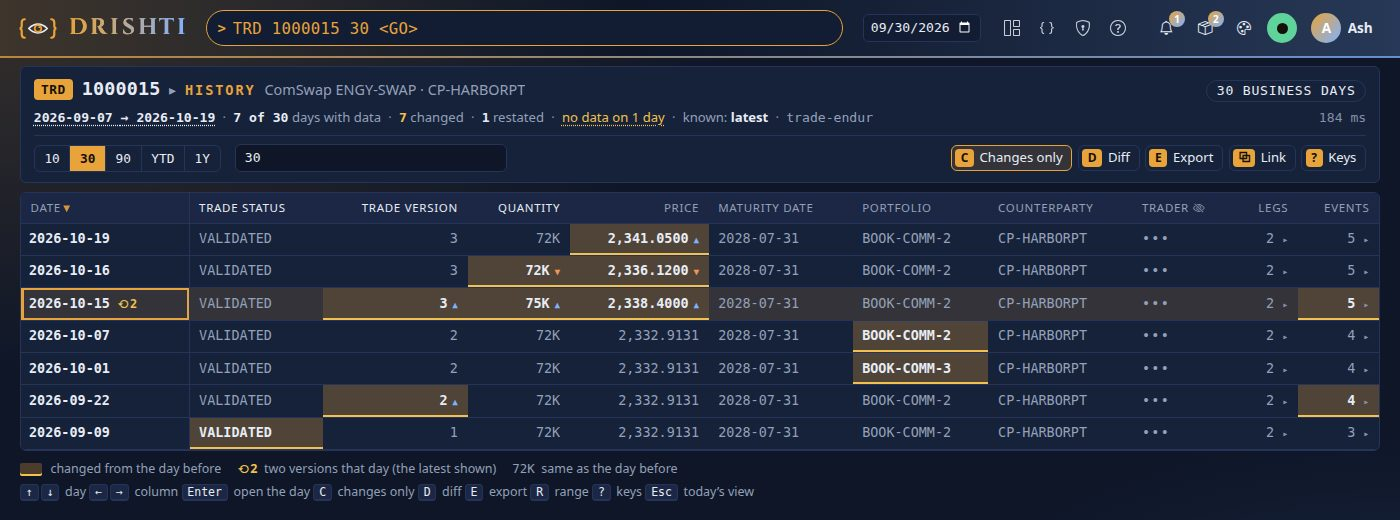
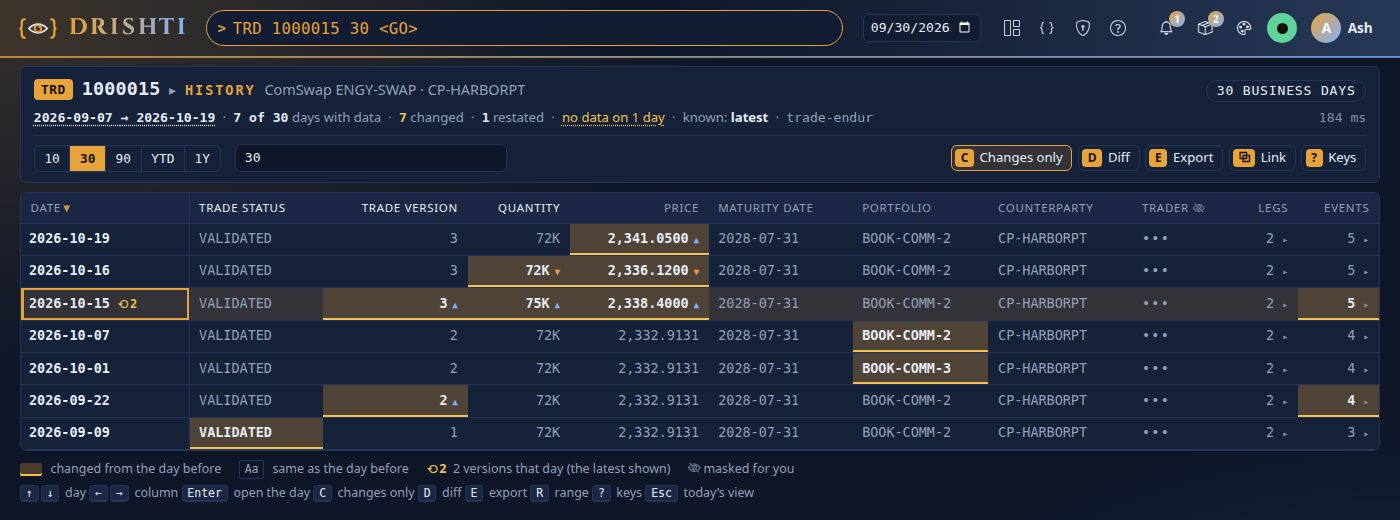
History page legend: only what the page shows (changed and same when a day changed, N versions when a day was restated, carried, masked), with a neutral sample cell instead of a value of the fixture trade; test; tutorial 21 pictures retaken

Changed region(s): [[0.0307, 0.8923, 0.5836, 0.9538]]

diff --git a/drishti-console/web/templates/terminal/history.html b/drishti-console/web/templates/terminal/history.html
@@ -142,7 +142,14 @@
   </section>
   {% endif %}
   <footer class="hx-foot">
-    {% if not page.market %}<p class="hx-legend"><span class="hx-sw hx-sw-ch" aria-hidden="true"></span> changed from the day before <span class="hx-sw-ver">⟲2</span> two versions that day (the latest shown) <span class="hx-sw-same">72K</span> same as the day before</p>{% endif %}
+    {# the legend names only what this page shows #}
+    {% if not page.market and (page.changed_days or page.restated or page.carried or page.masked) %}<p class="hx-legend" data-hx-legend>
+      {% if page.changed_days %}<span class="hx-li" data-legend="changed"><span class="hx-sw hx-sw-ch" aria-hidden="true"></span> changed from the day before</span>
+      <span class="hx-li" data-legend="same"><span class="hx-sw hx-sw-same" aria-hidden="true">Aa</span> same as the day before</span>{% endif %}
+      {% if page.restated %}<span class="hx-li" data-legend="versions"><span class="hx-sw-ver">⟲{{ page.max_versions }}</span> {{ page.max_versions }} versions that day (the latest shown)</span>{% endif %}
+      {% if page.carried %}<span class="hx-li" data-legend="carried"><span class="hx-carry">↧</span> no change that day: carried forward</span>{% endif %}
+      {% if page.masked %}<span class="hx-li" data-legend="masked"><i class="bi bi-eye-slash" aria-hidden="true"></i> masked for you</span>{% endif %}
+    </p>{% endif %}
     <p class="hx-keyline"><kbd>↑</kbd><kbd>↓</kbd> day <kbd>←</kbd><kbd>→</kbd> column <kbd>Enter</kbd> open the day {% if not page.market %}<kbd>C</kbd> changes only {% else %}<kbd>1</kbd><kbd>3</kbd><kbd>6</kbd><kbd>Y</kbd><kbd>T</kbd> range {% endif %}<kbd>D</kbd> diff <kbd>E</kbd> export <kbd>R</kbd> range <kbd>?</kbd> keys <kbd>Esc</kbd> today’s view</p>
   </footer>
   <dialog class="hx-help" data-hx-help aria-label="History keys">

diff --git a/drishti-console/web/static/css/history.css b/drishti-console/web/static/css/history.css
@@ -126,8 +126,11 @@
   font-size: .72rem; background: var(--d-surface-2); color: var(--d-ink); margin-right: .15rem; }
 .hx-sw { display: inline-block; width: 1.4rem; height: .8rem; vertical-align: middle; margin-right: .3rem; border-radius: 2px; }
 .hx-sw-ch { background: var(--d-emph-bg); box-shadow: inset 0 -2px 0 var(--d-warn); }
-.hx-sw-ver { color: var(--d-warn); font-weight: 700; margin: 0 .2rem 0 .8rem; }
-.hx-sw-same { color: var(--d-muted); font-family: var(--d-font-mono); margin: 0 .2rem 0 .8rem; }
+.hx-sw-ver { color: var(--d-warn); font-weight: 700; margin-right: .2rem; }
+.hx-legend { display: flex; flex-wrap: wrap; gap: .2rem 1.1rem; }
+.hx-li { white-space: nowrap; }
+.hx-sw-same { width: auto; height: auto; color: var(--d-muted); font-family: var(--d-font-mono); font-size: .72rem; border: 1px solid var(--d-border);
+  padding: 0 .3rem; vertical-align: baseline; }
 .hx-help { border: 1px solid var(--d-border); border-radius: 8px; background: var(--d-surface); color: var(--d-ink); padding: .8rem 1rem; max-width: min(46rem, 94vw); }
 .hx-help::backdrop { background: rgba(0, 0, 0, .45); }
 .hx-help header { display: flex; justify-content: space-between; align-items: center; margin-bottom: .4rem; }

diff --git a/drishti-console/tests/test_history_routes.py b/drishti-console/tests/test_history_routes.py
@@ -130,6 +130,31 @@ def test_exports(client):
     assert x.status_code == 200 and x.content[:2] == b"PK"
 
 
+def test_the_legend_names_only_what_the_page_shows(client, backend, monkeypatch):
+    t = client.get("/v/trade/1000015/history?days=30").text
+    for item in ("changed", "same", "versions", "masked"):
+        assert f'data-legend="{item}"' in t, item
+    assert "72K</span> same" not in t                                       # no value of one entity in the legend
+    assert "2 versions that day" in t
+
+    async def history(kind, id_, ident=None, **params):                    # a counterparty: one version a day, no masks, one change
+        return {"ref": {"kind": kind, "id": id_}, "shape": "document", "window": {"from": "2026-10-16", "to": "2026-10-19"}, "parts": [],
+                "columns": [{"path": "RATING", "label": "Rating", "type": "text"}],
+                "rows": [{"date": "2026-10-16", "values": {"RATING": "A"}, "display": {"RATING": "A"}, "changed": [], "versions": 1},
+                         {"date": "2026-10-19", "values": {"RATING": "A-"}, "display": {"RATING": "A-"}, "changed": ["RATING"], "versions": 1}]}
+    monkeypatch.setattr(backend, "history", history)
+    t = client.get("/v/counterparty/CP-NORTHPLAINS/history?days=30").text
+    assert 'data-legend="changed"' in t and 'data-legend="versions"' not in t and 'data-legend="masked"' not in t
+    assert 'data-legend="carried"' not in t
+
+    async def unchanged(kind, id_, ident=None, **params):
+        d = await history(kind, id_)
+        d["rows"][1]["changed"], d["rows"][1]["values"], d["rows"][1]["display"] = [], {"RATING": "A"}, {"RATING": "A"}
+        return d
+    monkeypatch.setattr(backend, "history", unchanged)
+    assert "data-hx-legend" not in client.get("/v/counterparty/CP-NORTHPLAINS/history?days=30").text
+
+
 def test_the_csv_keeps_formulas_as_text(client, backend, monkeypatch):
     async def history(kind, id_, ident=None, **params):
         return {"ref": {"kind": kind, "id": id_}, "window": {"from": "2026-10-19", "to": "2026-10-19"}, "parts": [],

diff --git a/drishti-console/core/history_rows.py b/drishti-console/core/history_rows.py
@@ -156,10 +156,12 @@ def build_page(data: dict, kind: str, id_: str, known_at: str | None = None) -> 
                "points": [[r["date"], (r.get("values") or {}).get(c["path"]) if _num((r.get("values") or {}).get(c["path"])) else None]
                           for r in rows_asc]} for c in chart]
     restated = sum(1 for r in rows_asc if r.get("restated"))
+    max_versions = max([r.get("versions") or 1 for r in rows_asc] or [1])
     sources = sorted({r.get("source") for r in rows_asc if r.get("source")})
     return {"data": data, "market": market, "columns": columns, "parts": parts, "rows": built, "window": window,
             "count": len(rows_asc), "changed_days": data.get("changedDays", sum(1 for r in rows_asc if r.get("changed"))),
-            "restated": restated, "sources": sources, "headline": headline, "series": series,
+            "restated": restated, "max_versions": max(max_versions, 2), "carried": sum(1 for r in rows_asc if r.get("carried")),
+            "masked": any(c.get("masked") for c in columns), "sources": sources, "headline": headline, "series": series,
             "ranges": MARKET_RANGES if market else DOCUMENT_RANGES, "missing": window.get("missing") or [],
             "problems": data.get("problems") or [], "partial": bool(data.get("partial")), "truncated": bool(data.get("truncated")),
             "diff": any(r.get("changes") for r in rows_asc)}
